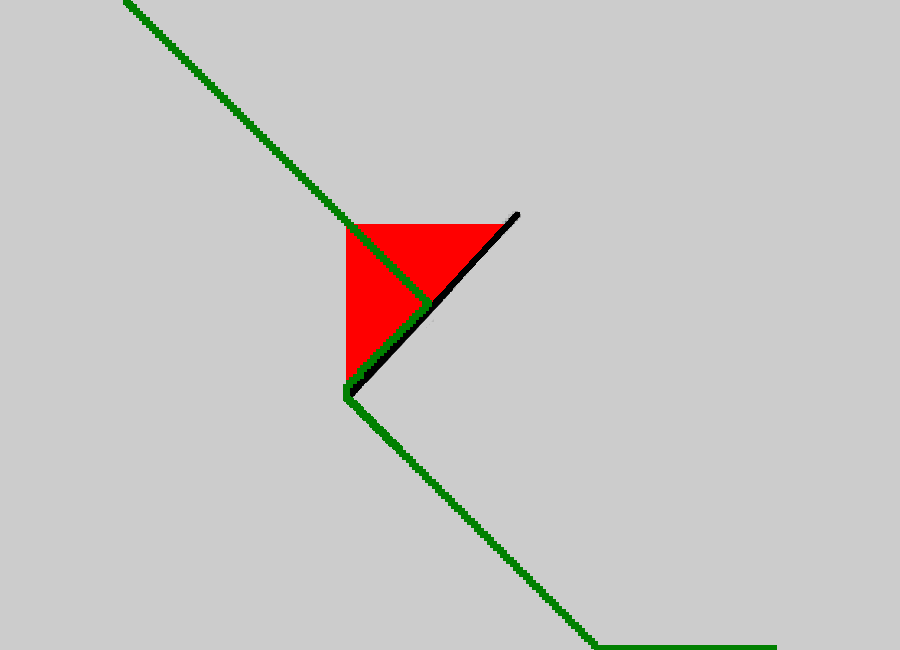
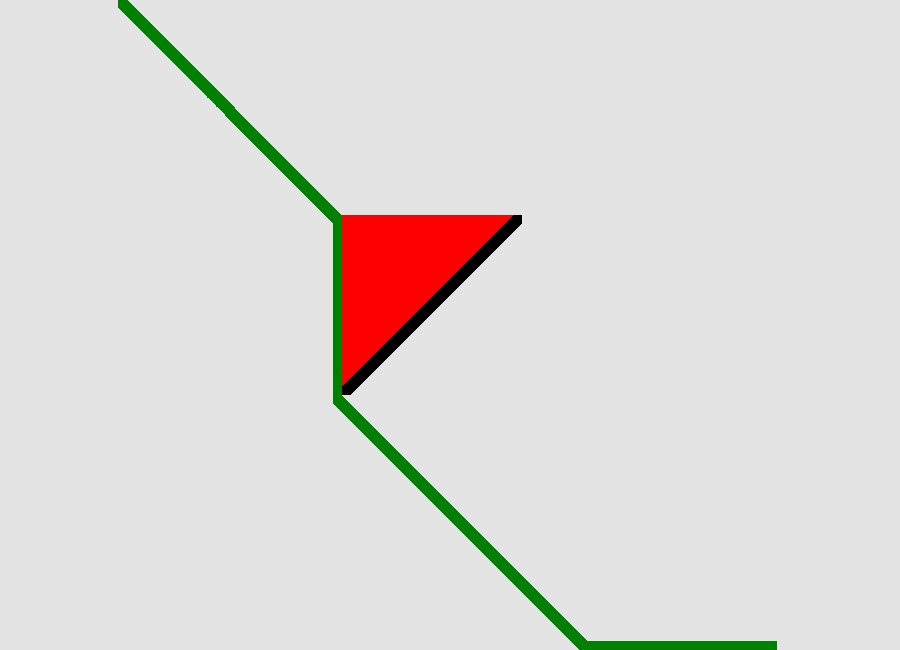
cost function for more intuitive solutions

diff --git a/projects/modal7/code/planner.js b/projects/modal7/code/planner.js
@@ -22,7 +22,7 @@ function plan(problem, start, goal, heuristic) {
             for (var y = 0; y < problem_size[1]; y++) {
                 if (!exploration[x][y][0]) {
                     // from dijkstra to greedy (x5) euclidian goal heuristic (faster, but cost overestimation -> loosing path optimality)
-                    var cost = exploration[x][y][1] + heuristic * (Math.abs(goal[0] - x) + Math.abs(goal[0] - y));
+                    var cost = exploration[x][y][1] + heuristic * Math.hypot(goal[0] - x, goal[0] - y);
                     if (cost < current[0]) {
                         // found better node
                         current[0] = cost;
@@ -59,16 +59,18 @@ function plan(problem, start, goal, heuristic) {
 
         // update the neighbours if not a wall (infinite cost for walls)
         var neighbours = [-1, 0, 1];
-        for (var xdifi =0; xdifi < 3; xdifi++) {
+        for (var xdifi = 0; xdifi < 3; xdifi++) {
             var xdif = neighbours[xdifi]; // for xdif in neighbours retrieves strings
-            for (var ydifi=0; ydifi<3; ydifi++) {
+            for (var ydifi = 0; ydifi < 3; ydifi++) {
                 var ydif = neighbours[ydifi];
                 if (xdif != 0 || ydif != 0) { // actual neighbour
                     if (current[1] + xdif >= 0 && current[1] + xdif < problem_size[0] && current[2] + ydif >= 0 && current[2] + ydif < problem_size[1]) { // in range
                         if (problem[current[1] + xdif][current[2] + ydif] < 1) { // neighbour not a wall
-                            if (current[0] + 1 < exploration[current[1] + xdif][current[2] + ydif][1]) { // check for lower cost, 1 cost per move
+                            // less cost for diagonal moves, but not same for more intuitive solutions
+                            var cost = current[0] + ((ydif != 0 && xdif != 0) ? 1.5 : 1);
+                            if (cost < exploration[current[1] + xdif][current[2] + ydif][1]) { // check for lower cost
                                 // update cost and parent data
-                                exploration[current[1] + xdif][current[2] + ydif][1] = current[0] + 1;
+                                exploration[current[1] + xdif][current[2] + ydif][1] = cost;
                                 exploration[current[1] + xdif][current[2] + ydif][2] = [current[1], current[2]];
                             }
                         }
@@ -86,6 +88,6 @@ function plan(problem, start, goal, heuristic) {
 }
 
 // retrieve task from main
-self.addEventListener('message', function(e) {
+self.addEventListener('message', function (e) {
     plan(e.data[0], e.data[1], e.data[2], e.data[3]);
 }, false);
